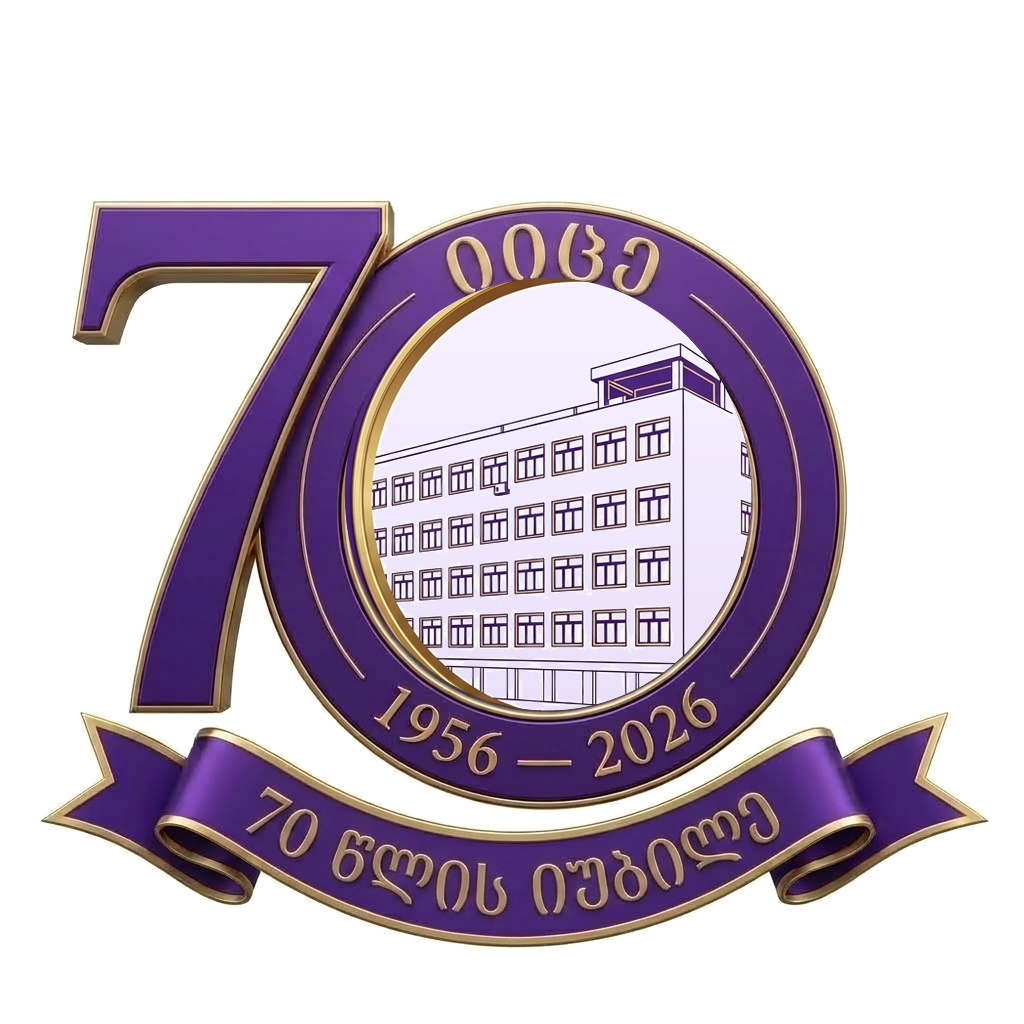
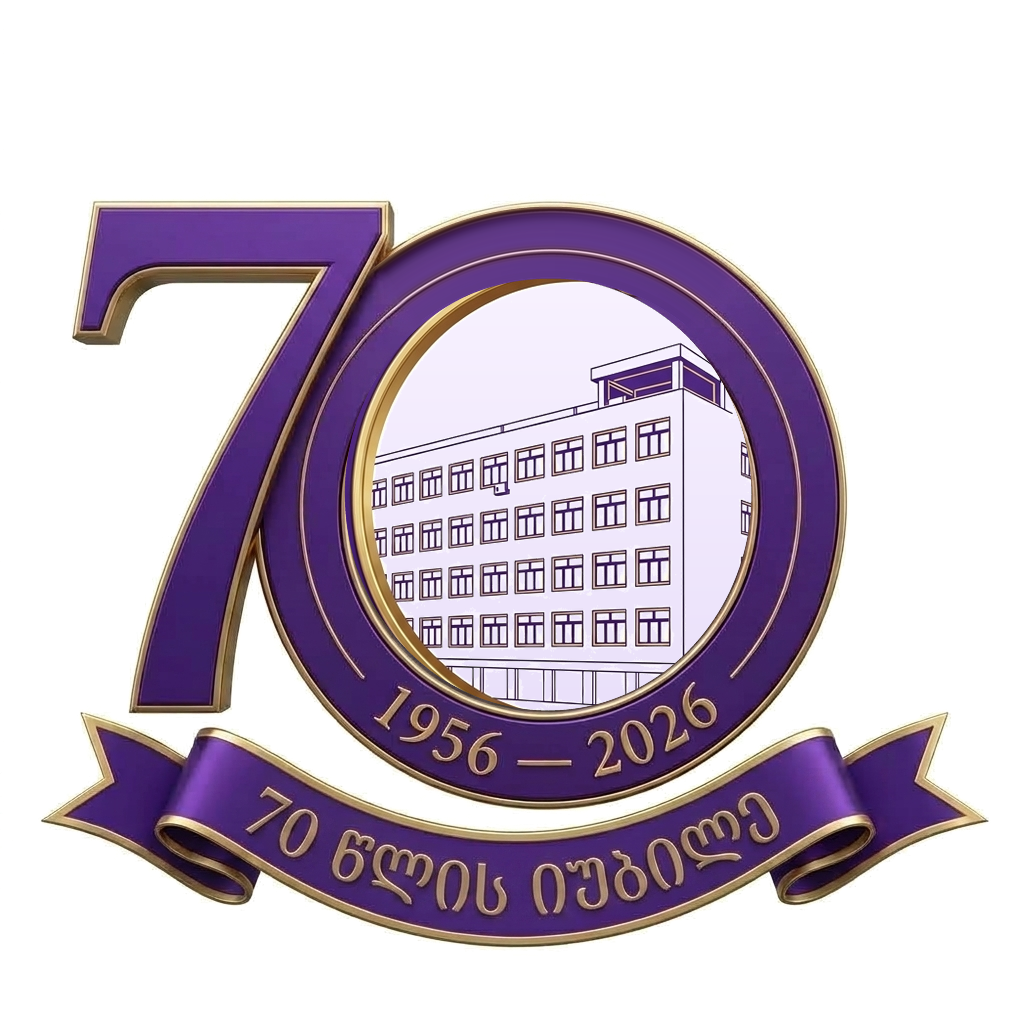
feat: make homepage hero title uniform color and remove IICE/იიცე from 70th emblem

Changed region(s): [[0.375, 0.1875, 0.6562, 0.3125], [0.6562, 0.2812, 0.6875, 0.3125]]

diff --git a/src/app/page.js b/src/app/page.js
@@ -95,7 +95,7 @@ export default function Home() {
             </div>
             <h1 className="text-2xl sm:text-3xl md:text-3xl lg:text-4xl xl:text-5xl tracking-tight font-extrabold text-[#60318e] drop-shadow-xs leading-[1.15]">
               <span className="block text-[#60318e]">{t.home.heroTitle}</span>{' '}
-              <span className="block text-[#7A1CAC] mt-1">{t.home.heroTitleHighlight}</span>
+              <span className="block text-[#60318e] mt-1">{t.home.heroTitleHighlight}</span>
             </h1>
             <p className="mt-4 text-sm sm:text-base text-slate-600 font-medium leading-relaxed max-w-xl mx-auto md:mx-0">
               {t.home.heroSubtitle}
